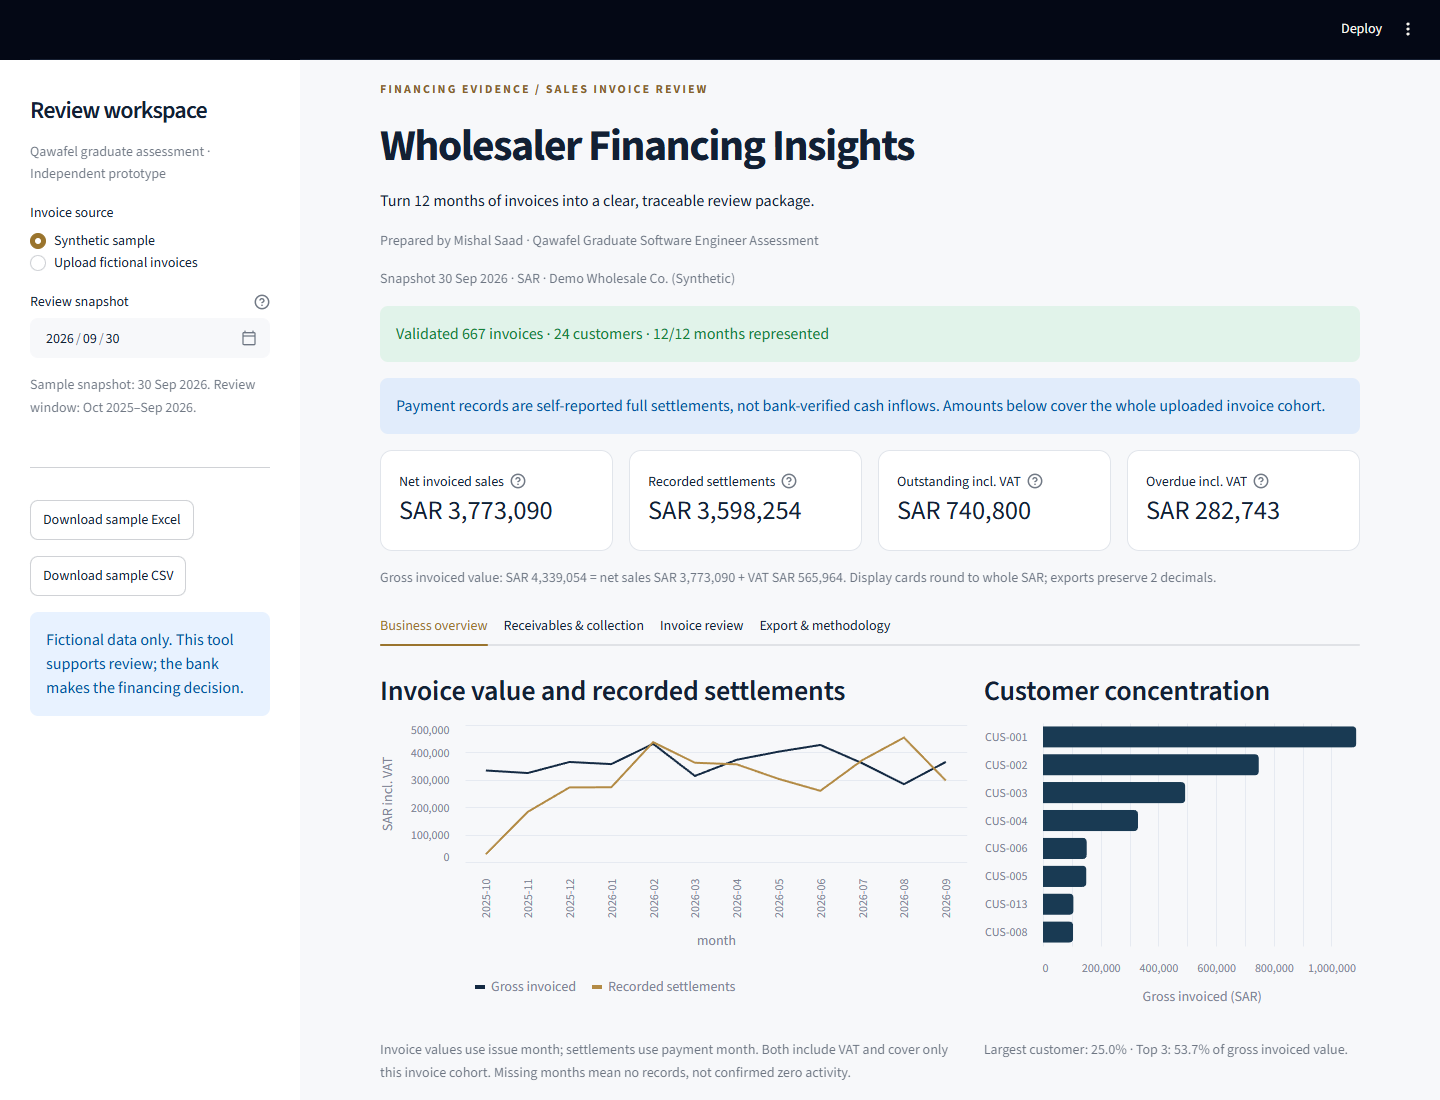
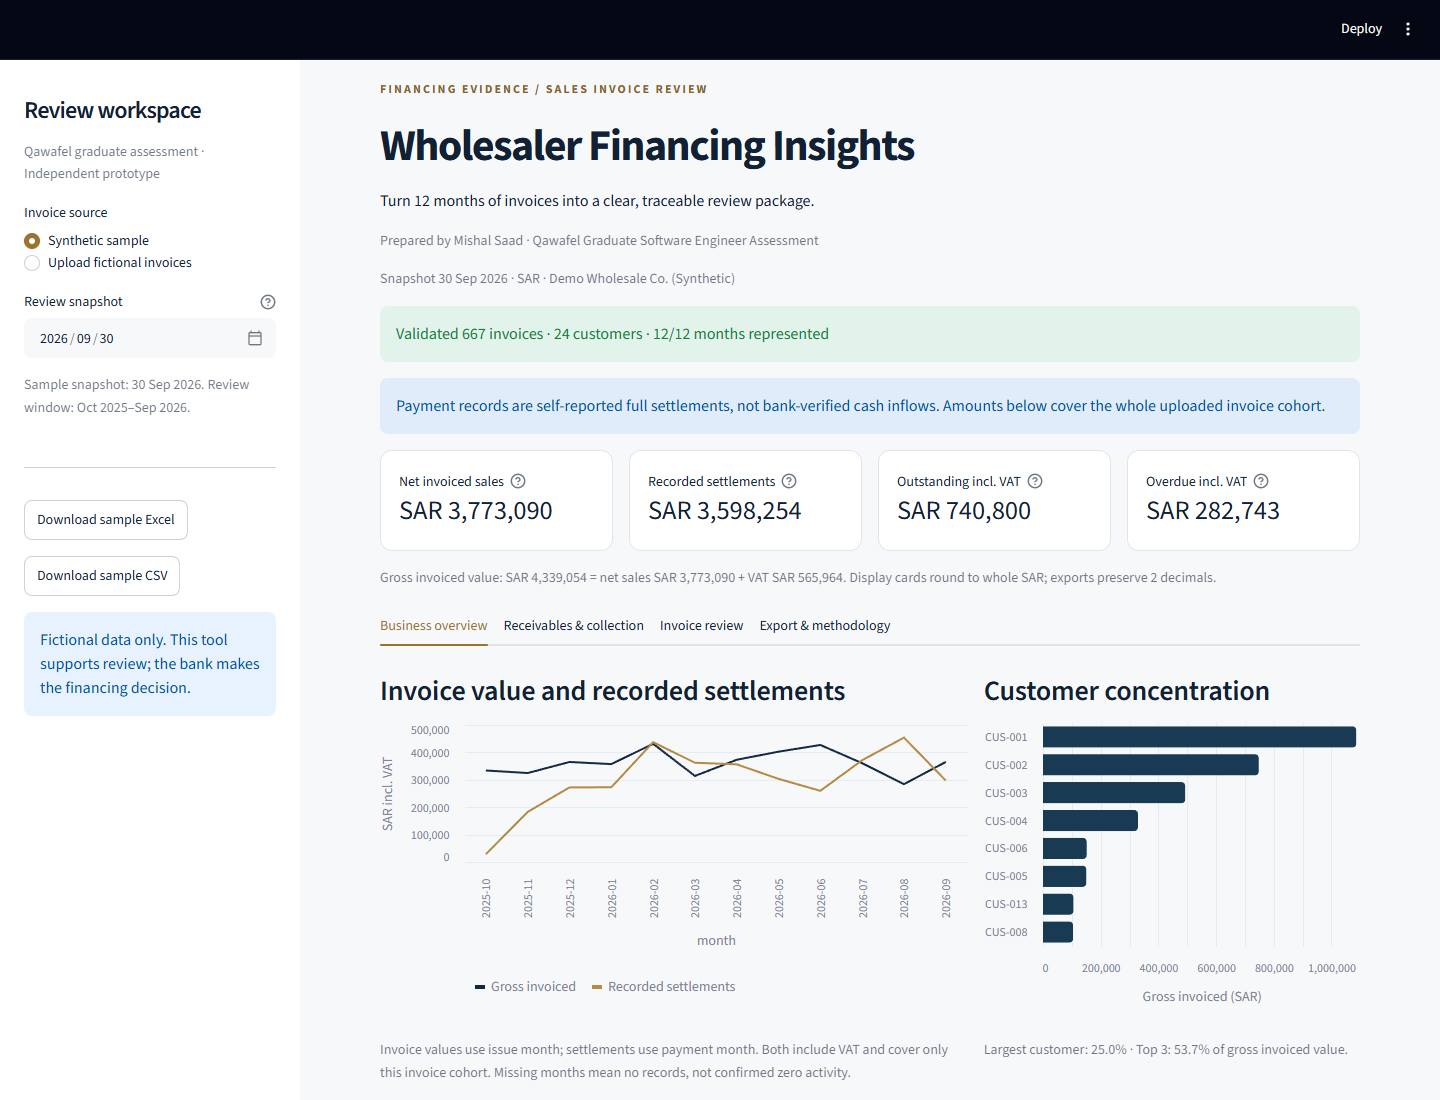
Keep sidebar scrolling below the continuous header

diff --git a/app.py b/app.py
@@ -18,7 +18,9 @@ st.set_page_config(page_title="Wholesaler Financing Insights", page_icon="📊",
 st.markdown("""
 <style>
 [data-testid="stHeader"], [data-testid="stSidebarHeader"] {background-color: #040815; border-bottom: 1px solid #172033;}
-[data-testid="stSidebarHeader"] {box-shadow: -2rem 0 0 #040815, 2rem 0 0 #040815;}
+[data-testid="stSidebarContent"] {display: flex; flex-direction: column; overflow: hidden; scrollbar-gutter: auto; padding: 0;}
+[data-testid="stSidebar"] [data-testid="stSidebarHeader"] {flex: 0 0 3.75rem; width: 100%; margin: 0; padding: 0 1.5rem; box-sizing: border-box;}
+[data-testid="stSidebar"] [data-testid="stSidebarUserContent"] {flex: 1 1 auto; min-height: 0; overflow-y: auto; overflow-x: hidden; width: 100%; margin: 0; padding: 1rem 1.5rem 6rem; box-sizing: border-box;}
 :is([data-testid="stHeader"], [data-testid="stSidebarHeader"]) button {color: #F7F4ED; background-color: transparent;}
 :is([data-testid="stHeader"], [data-testid="stSidebarHeader"]) button:hover {color: #FFFFFF; background-color: rgba(255, 255, 255, 0.10);}
 :is([data-testid="stHeader"], [data-testid="stSidebarHeader"]) button:focus-visible {outline: 2px solid #B38B45; outline-offset: 2px;}
